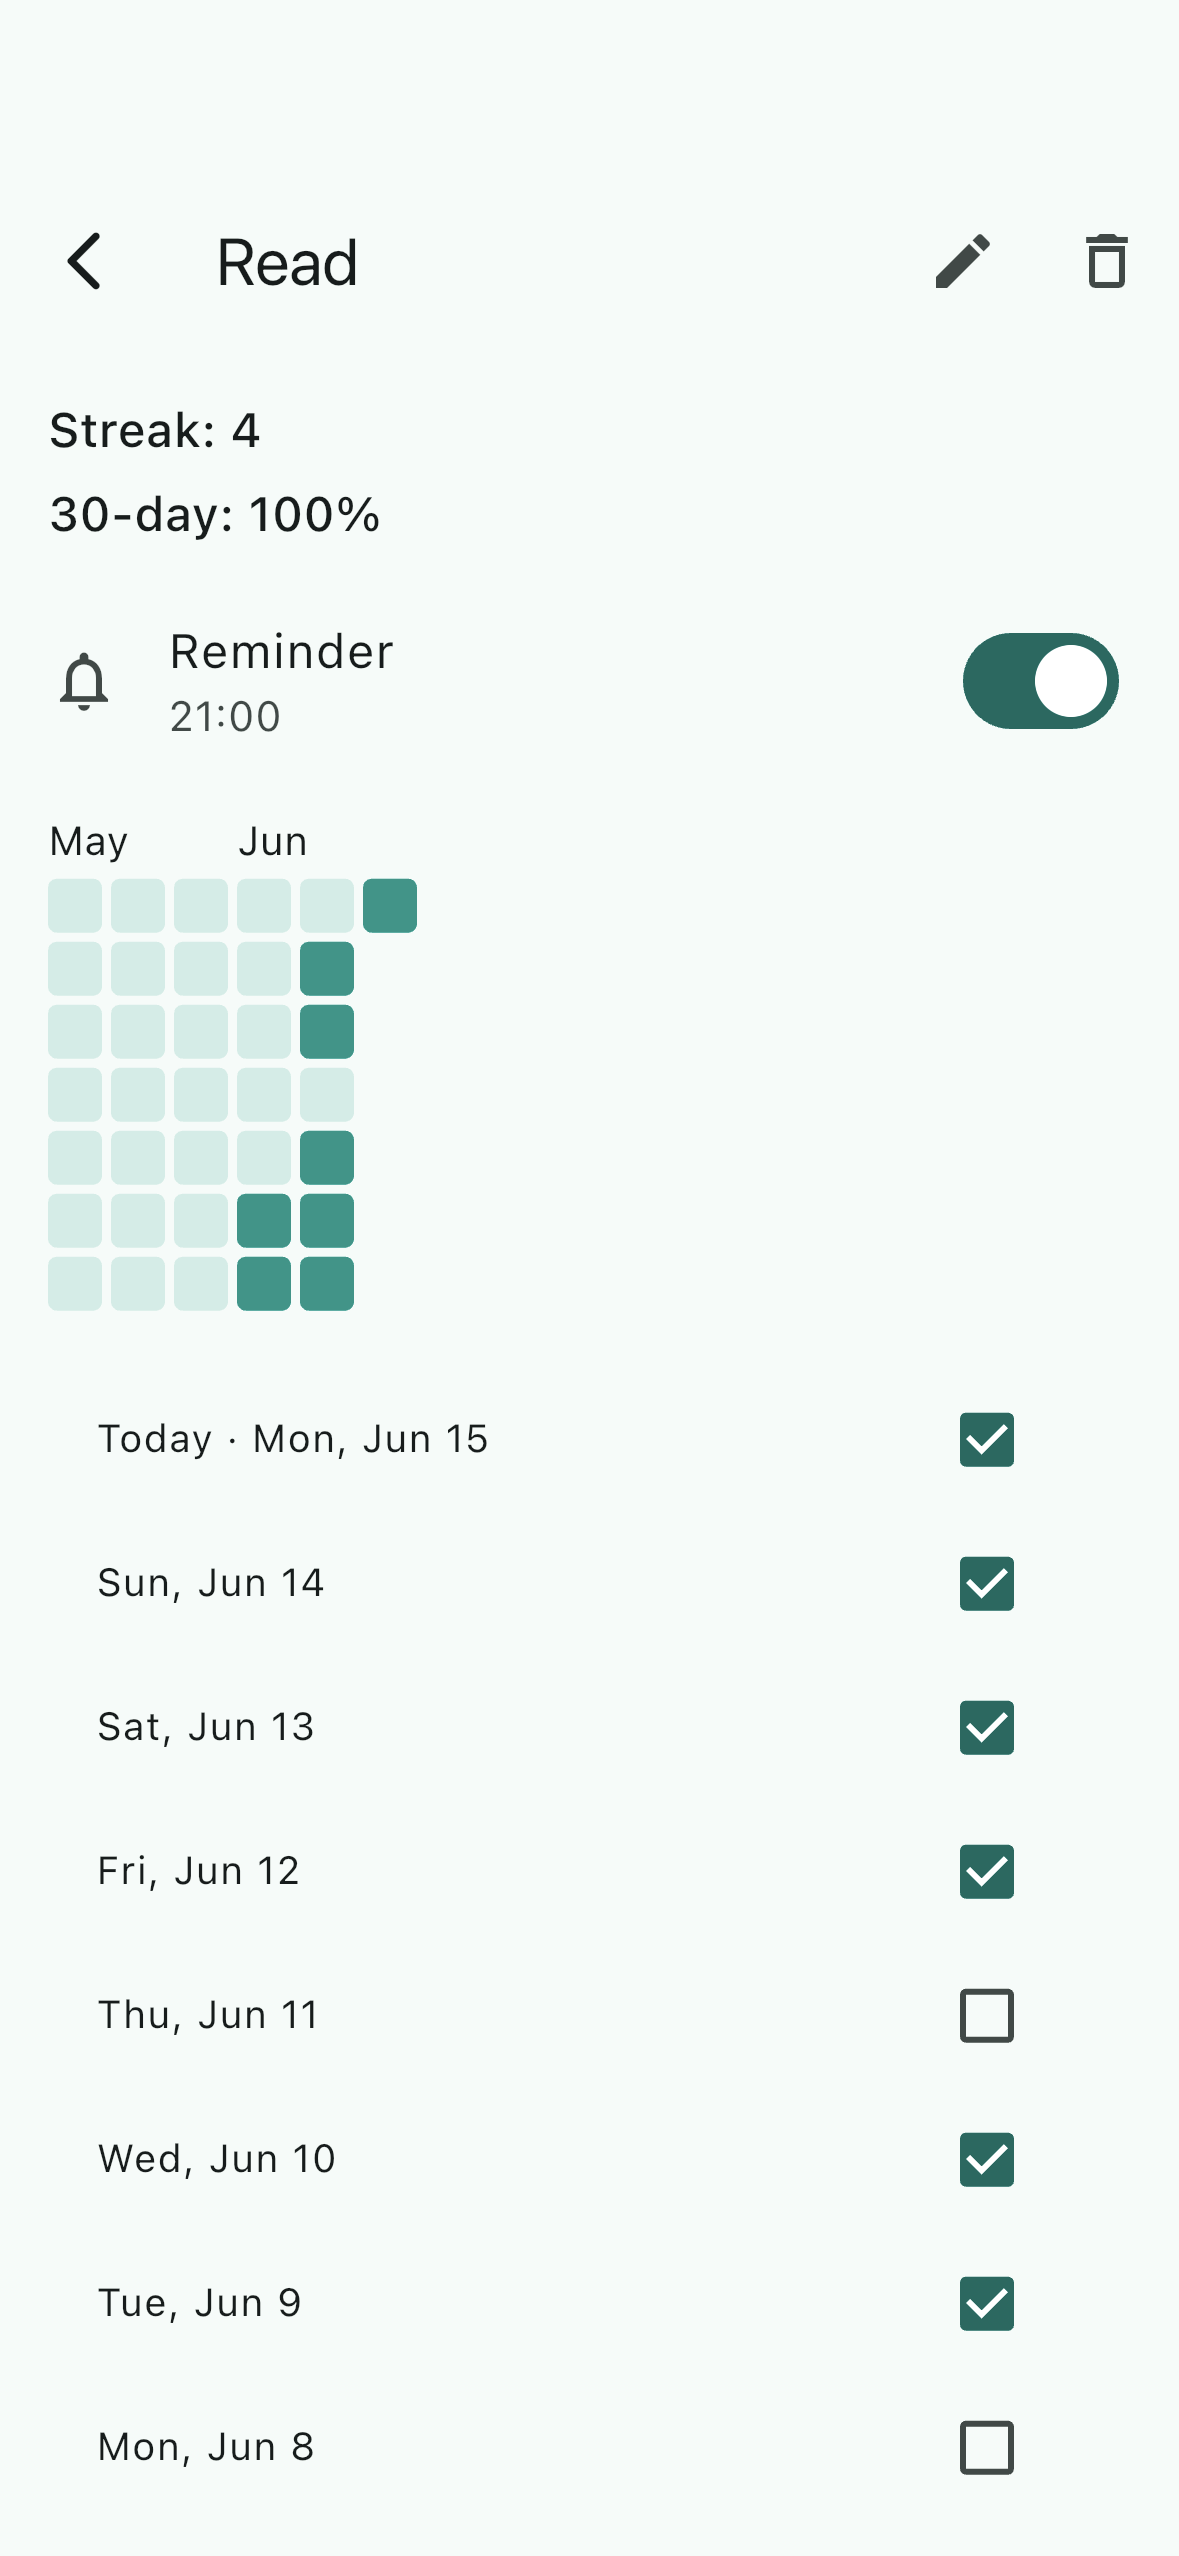
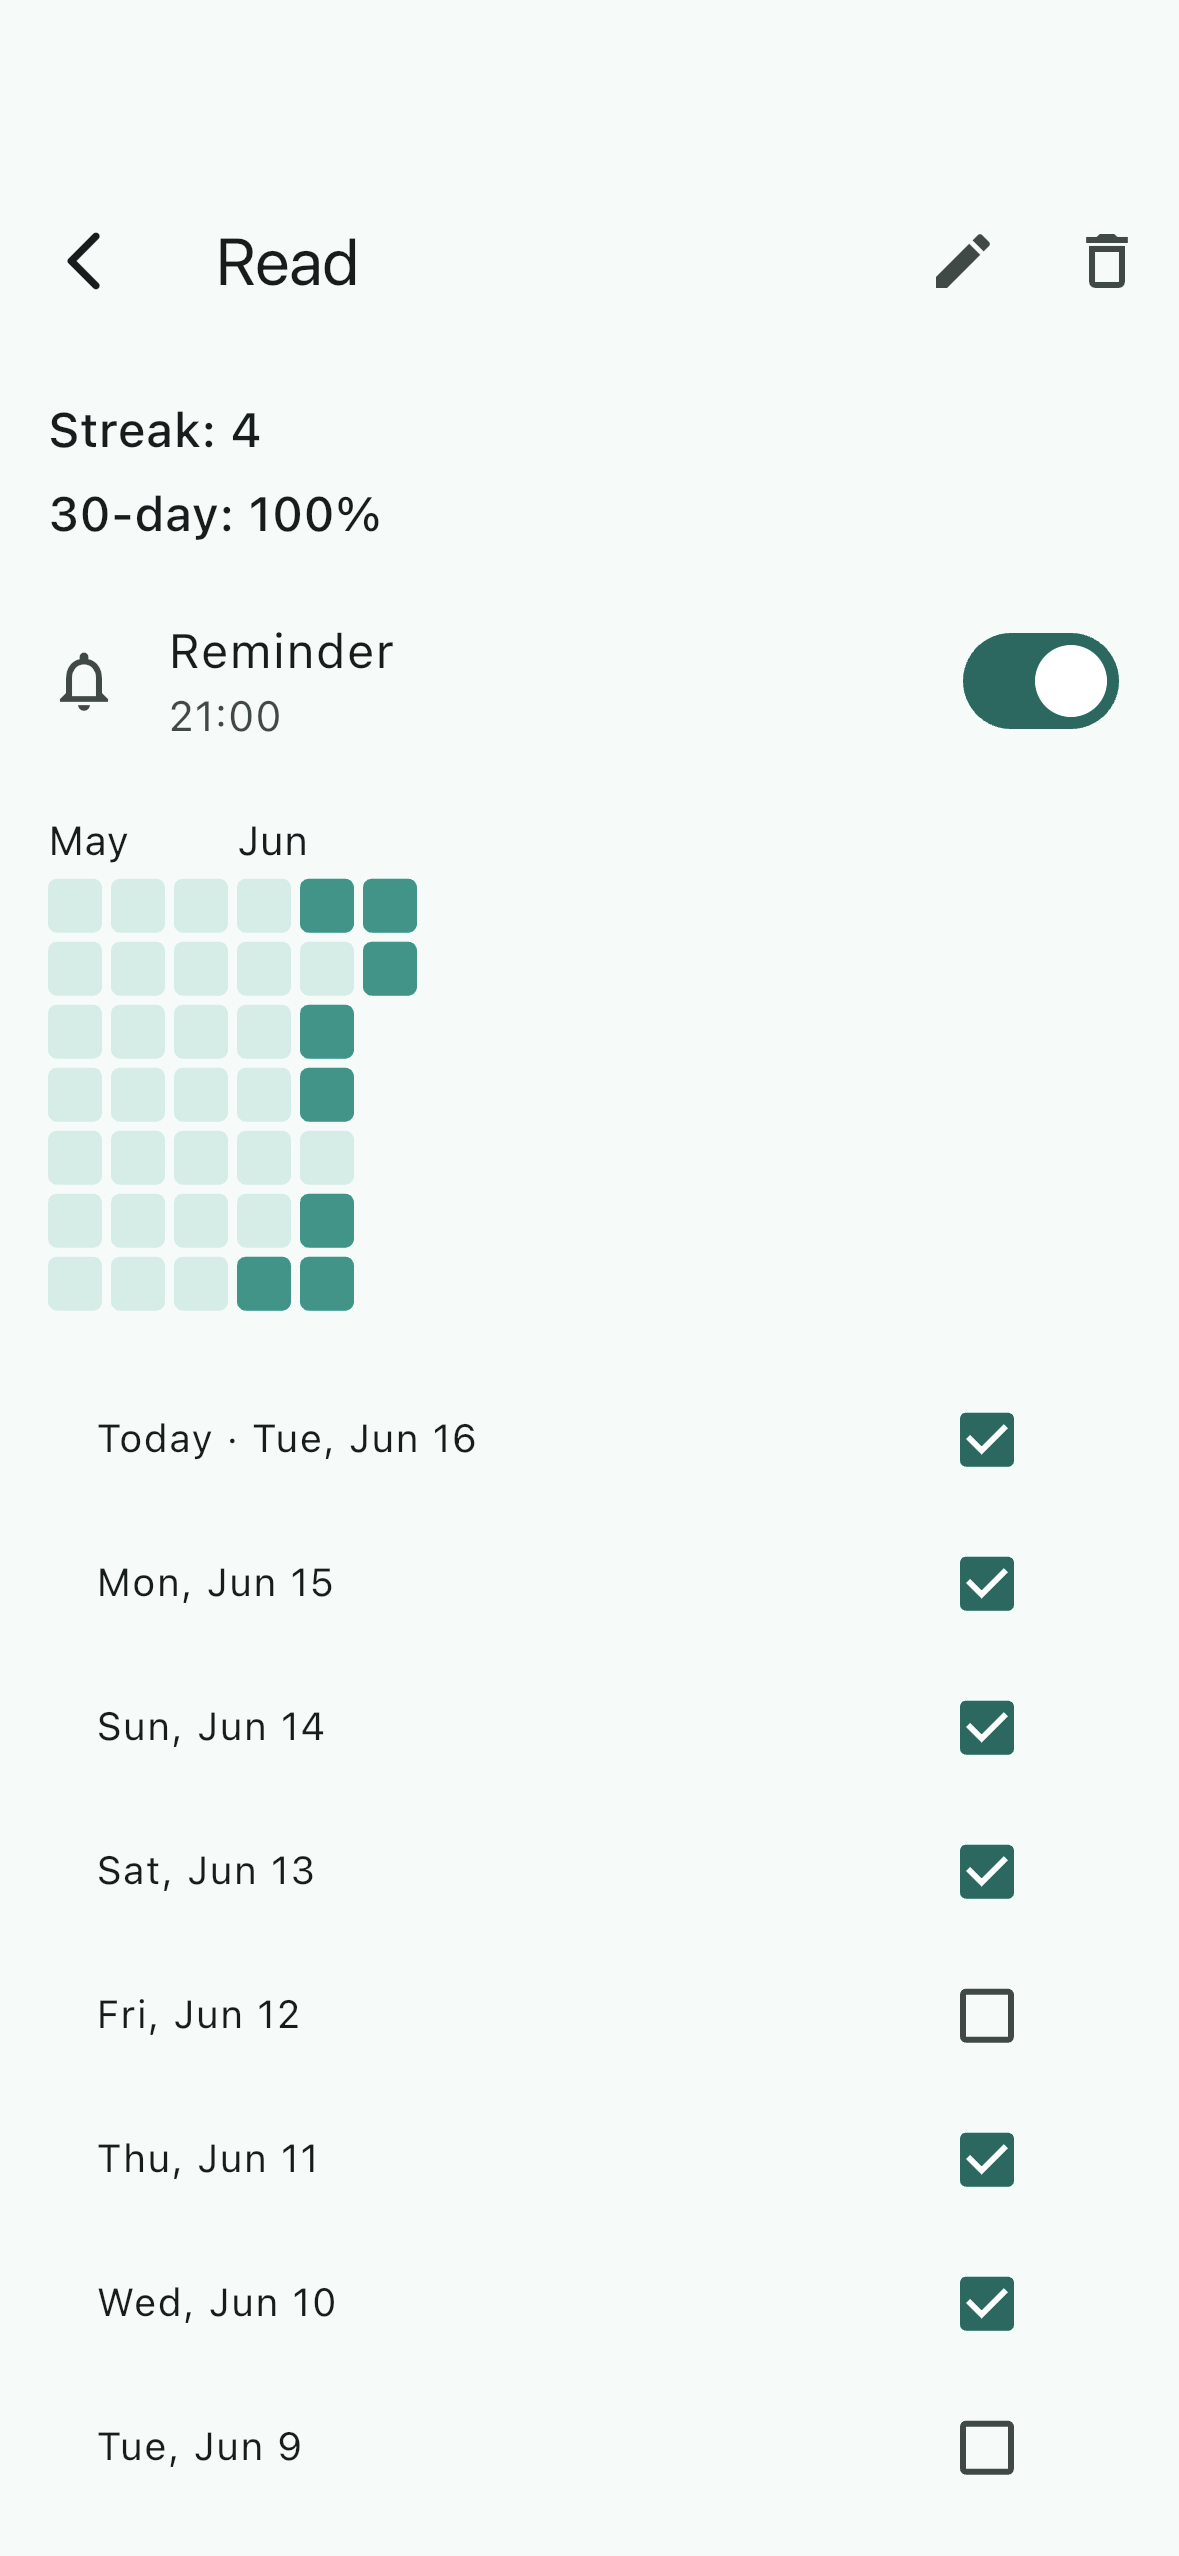
docs: refresh README screenshots; add dark + color-picker shots (#7)
Regenerate the four existing screenshots and add a dark-theme home shot
and a color-picker (create dialog) shot via the screenshots integration
test. Settings now shows the Theme tile. Extend screenshots_test.dart
(dark/color-picker captures, palette-aligned seed colors, Android-guarded
surface conversion), refresh the README table + Features text, fix the
test count (115 -> 130), and document regeneration in docs/screenshots.md
(linked from CLAUDE.md).

diff --git a/integration_test/screenshots_test.dart b/integration_test/screenshots_test.dart
@@ -1,3 +1,5 @@
+import 'dart:io' show Platform;
+
 import 'package:drift/native.dart';
 import 'package:flutter/material.dart';
 import 'package:flutter_riverpod/flutter_riverpod.dart';
@@ -35,10 +37,11 @@ Future<AppDatabase> seededDb() async {
     }
   }
 
+  // Colors are drawn from kHabitPalette so the shots match the curated picker.
   await add('Read', 0xFF009688, [0, 1, 2, 3, 5, 6, 8, 9], '21:00');
-  await add('Exercise', 0xFFEF5350, [0, 1, 3, 4, 7, 10], '07:30');
-  await add('Meditate', 0xFF7E57C2, [1, 2, 4, 6, 9, 12], null);
-  await add('Drink water', 0xFF42A5F5, [0, 2, 3, 4, 5, 6, 7, 8], null);
+  await add('Exercise', 0xFFE53935, [0, 1, 3, 4, 7, 10], '07:30');
+  await add('Meditate', 0xFF5E35B1, [1, 2, 4, 6, 9, 12], null);
+  await add('Drink water', 0xFF1E88E5, [0, 2, 3, 4, 5, 6, 7, 8], null);
   return db;
 }
 
@@ -63,29 +66,53 @@ void main() {
   final binding = IntegrationTestWidgetsFlutterBinding.ensureInitialized();
 
   testWidgets('README screenshots', (tester) async {
-    await pumpApp(tester, {});
-    await binding.convertFlutterSurfaceToImage();
-    await tester.pumpAndSettle();
-    await binding.takeScreenshot('home-en');
+    // Android needs the surface converted to an image once before capturing;
+    // iOS captures the native surface directly.
+    var surfaceReady = false;
+    Future<void> shoot(String name) async {
+      if (Platform.isAndroid && !surfaceReady) {
+        await binding.convertFlutterSurfaceToImage();
+        surfaceReady = true;
+      }
+      await tester.pumpAndSettle();
+      await binding.takeScreenshot(name);
+    }
 
-    // Navigate to detail screen by tapping the habit name text
+    // --- Light, English ---
+    await pumpApp(tester, {'theme': 'light'});
+    await shoot('home-en');
+
+    // Detail screen (heatmap + reminder) — tap a habit by name.
     await tester.tap(find.text('Read').first);
     await tester.pumpAndSettle();
-    await binding.takeScreenshot('detail-en');
-
+    await shoot('detail-en');
     await tester.pageBack();
     await tester.pumpAndSettle();
+
+    // Settings list — now includes the Theme tile alongside Language.
     await tester.tap(find.byKey(const Key('open-settings')));
     await tester.pumpAndSettle();
-    await tester.tap(find.byKey(const Key('language-tile')));
+    await shoot('settings-en');
+    await tester.pageBack();
     await tester.pumpAndSettle();
-    await binding.takeScreenshot('settings-en');
 
-    // Dismiss any open dialog/screen before pumping a new app
+    // Color picker — the create dialog with its swatch palette.
+    await tester.tap(find.byKey(const Key('add-habit-fab')));
+    await tester.pumpAndSettle();
+    FocusManager.instance.primaryFocus?.unfocus(); // hide the keyboard
+    await tester.pumpAndSettle();
+    await shoot('create-en');
+
+    // --- Russian (fresh app) ---
     await tester.pumpWidget(const SizedBox.shrink());
     await tester.pumpAndSettle();
-    await pumpApp(tester, {'locale': 'ru'});
+    await pumpApp(tester, {'locale': 'ru', 'theme': 'light'});
+    await shoot('home-ru');
+
+    // --- Dark theme (fresh app) ---
+    await tester.pumpWidget(const SizedBox.shrink());
     await tester.pumpAndSettle();
-    await binding.takeScreenshot('home-ru');
+    await pumpApp(tester, {'theme': 'dark'});
+    await shoot('home-dark');
   });
 }

diff --git a/docs/screenshots.md b/docs/screenshots.md
@@ -1,0 +1,56 @@
+# Regenerating the README screenshots
+
+The screenshots in [`README.md`](../README.md) live in
+[`assets/screenshots/`](../assets/screenshots/) and are generated
+deterministically — never hand-captured — so they stay consistent and easy to
+refresh when the UI changes.
+
+## How it works
+
+- **Test:** [`integration_test/screenshots_test.dart`](../integration_test/screenshots_test.dart)
+  pumps the real [`HabbitsApp`](../lib/main.dart) with three overrides: a seeded
+  in-memory database (`seededDb()` — four habits with palette colors and recent
+  completions), a no-op `NotificationService`, and a mocked `SharedPreferences`
+  so the locale and theme are forced per shot (`{'theme': 'dark'}`,
+  `{'locale': 'ru'}`, …). It navigates the live screens and calls
+  `binding.takeScreenshot('<name>')` at each point.
+- **Driver:** [`test_driver/integration_test.dart`](../test_driver/integration_test.dart)
+  receives each shot via `onScreenshot` and writes
+  `assets/screenshots/<name>.png`.
+- Each `takeScreenshot('<name>')` maps 1:1 to `assets/screenshots/<name>.png`,
+  which the README references by that filename.
+
+## Regenerate
+
+Run on the iOS simulator (matches the committed shots — iPhone 16, native
+1179×2556). Setup notes for the toolchain are in the session memory
+(`ios-build-setup`).
+
+```bash
+export PATH="/opt/homebrew/bin:$PATH"
+xcrun simctl boot habbits_ios && open -a Simulator      # if not already booted
+flutter drive \
+  --driver=test_driver/integration_test.dart \
+  --target=integration_test/screenshots_test.dart \
+  -d habbits_ios
+```
+
+The PNGs are overwritten in place; review the diff and commit them with the
+README change. (Android also works — the test guards the Android-only
+`convertFlutterSurfaceToImage()`; that emulator's resolution differs from the
+committed shots.)
+
+## Add or change a shot
+
+1. Add a `takeScreenshot('<name>')` (and any navigation) in
+   `screenshots_test.dart`. To control locale/theme, pass prefs to `pumpApp`
+   (e.g. `await pumpApp(tester, {'theme': 'dark'})`). Unfocus before capturing a
+   dialog to hide the keyboard (see the color-picker shot).
+2. Adjust the seed data in `seededDb()` if the screen needs different content.
+3. Re-run the command above, then reference `assets/screenshots/<name>.png` in
+   the README table.
+
+## Current shots
+
+`home-en`, `detail-en`, `settings-en`, `create-en` (color picker), `home-ru`,
+`home-dark`.

diff --git a/README.md b/README.md
@@ -11,9 +11,13 @@ data** (everything lives in an on-device SQLite database — no account, no
 backend) and **deleting a habit is frictionless**. iOS + Android, English and
 Russian.
 
-| Home | Home (Русский) | Detail | Settings |
-|---|---|---|---|
-| ![Home](assets/screenshots/home-en.png) | ![Home RU](assets/screenshots/home-ru.png) | ![Detail](assets/screenshots/detail-en.png) | ![Settings](assets/screenshots/settings-en.png) |
+| Home | Detail | Settings |
+|---|---|---|
+| ![Home](assets/screenshots/home-en.png) | ![Detail](assets/screenshots/detail-en.png) | ![Settings](assets/screenshots/settings-en.png) |
+
+| Color picker | Dark theme | Home (Русский) |
+|---|---|---|
+| ![Color picker](assets/screenshots/create-en.png) | ![Dark theme](assets/screenshots/home-dark.png) | ![Home RU](assets/screenshots/home-ru.png) |
 
 ## Features
 
@@ -23,7 +27,8 @@ Russian.
 - ↕ Drag-to-reorder the home list
 - 💾 JSON export / import — your data is portable
 - 🌍 English + Russian, following the device locale with an in-app override
-- 🎨 Material 3, light theme
+- 🎨 Material 3 with light & dark themes (follows the device, or pick one)
+- 🌈 Per-habit color from a curated palette, set on create or edit
 - 📱 iOS and Android from one Flutter codebase
 
 ## Architecture
@@ -56,7 +61,7 @@ This repo uses [`just`](https://github.com/casey/just):
 
 ```bash
 just lint    # dart format + flutter analyze
-just test    # flutter test (115 unit/widget tests)
+just test    # flutter test (130 unit/widget tests)
 ```
 
 The integration flow runs on a device/emulator:

diff --git a/CLAUDE.md b/CLAUDE.md
@@ -19,6 +19,9 @@ Design + plan for every non-trivial change live in `planning/`. Read
 ## Commands
 
 `just lint` (`dart format` + `flutter analyze`) and `just test` (`flutter test`,
-115 tests) — see the `Justfile`; CI uses `just lint-ci`. Generated `*.g.dart` is
+130 tests) — see the `Justfile`; CI uses `just lint-ci`. Generated `*.g.dart` is
 committed; run `dart run build_runner build --delete-conflicting-outputs` after
 touching `@riverpod`/Drift code.
+
+README screenshots are generated, not hand-captured — see
+[`docs/screenshots.md`](docs/screenshots.md) to regenerate or add shots.
